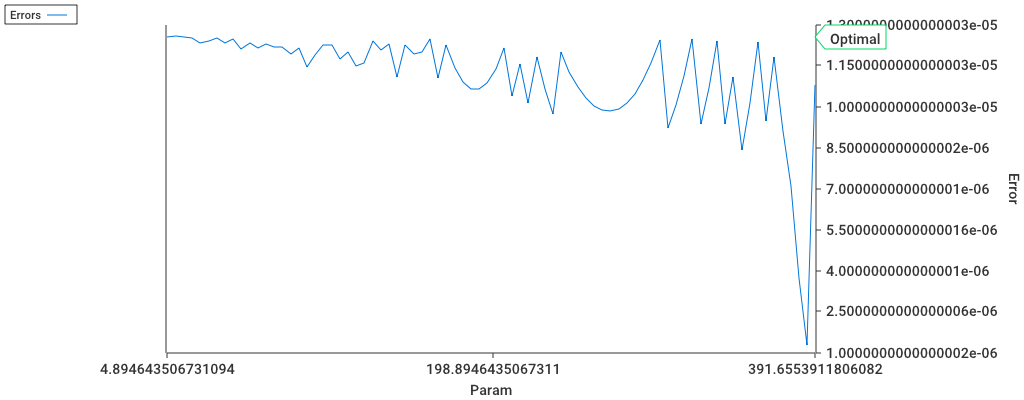
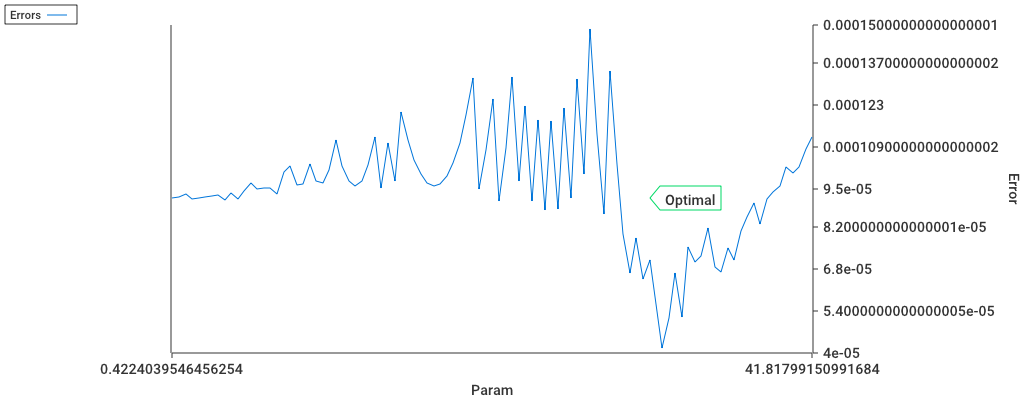
results new

diff --git a/algebra-num-methods/lab4/test.go b/algebra-num-methods/lab4/test.go
@@ -107,7 +107,7 @@ func IterMethod2(n int, m [][]float64, b []float64, EPS float64) (int, []float64
 		if math.Abs(err)*mt <= EPS {
 			return steps, prev
 		}
-		if math.IsNaN(err) {
+		if math.IsNaN(err) || math.IsInf(err, 1) || math.IsInf(err, -1) {
 			return -1, prev
 		}
 		prev = current
@@ -189,11 +189,11 @@ func GenUnitMatrix(n int) [][]float64 {
 	return m
 }
 func Test() {
-	n := 5
+	n := 50
 	mGen, b := GenMatrix(n)
 	// n, mGen, b := lab3.ReadMatrix("lab4/test/1")
 	a := mat.NewSymDense(n, lab1.Flat(mGen))
-	fmt.Println(mGen)
+	// fmt.Println(mGen)
 	var eigsym mat.EigenSym
 	_ = eigsym.Factorize(a, true)
 	eigs := eigsym.Values(nil)
@@ -202,9 +202,9 @@ func Test() {
 	fmt.Println(tL, tR, tOpt)
 	step := (tR - tL) / 100
 	xs, ys, zs := []float64{}, []float64{}, []float64{}
-	eps := 0.001
+	eps := 0.0001
 	res, _ := lib.GaussPartial(mGen, b)
-	fmt.Println(res)
+	// fmt.Println(res)
 
 	// _, res1 := IterMethod(n, mGen, b, eps)
 
@@ -214,26 +214,35 @@ func Test() {
 	}
 	// _, res1 := IterMethod(n,  MultConstMatrix(n, mGen, tOpt), g, eps)
 	// fmt.Println(res, res1)
-	for i := tL + step; i <= tR + step; i += step {
-	// for i := tOpt - step; i <= tR; i += step {
+	for i := tL + step; i < tR-step; i += step {
+	// for i := tOpt; i <= tR; i += step {
 		t := i
-		if tOpt-i < step {
+		if math.Abs(tOpt-i) < step {
 			t = tOpt
 		}
+		fmt.Println("t = ", t)
+
 		m := SubsMatrix(n, GenUnitMatrix(n), MultConstMatrix(n, mGen, t))
+		T := mat.NewSymDense(n, lab1.Flat(m))
+
+		var eigsymT mat.EigenSym
+		_ = eigsymT.Factorize(T, true)
+		mt = floats.Max(eigsymT.Values(nil))
+
 		g := make([]float64, n)
 		for j := 0; j < n; j++ {
 			g[j] = b[j] * t
 		}
-		mDet := mat.NewSymDense(n, lab1.Flat(m))
-		mt = mat.Norm(mDet, 1)
-		fmt.Println(mt)
-		if mt > 1 {
-			// panic("norm > 1")
+
+		fmt.Println("\t", mt)
+		if mt >= 1 {
+			fmt.Println("\tnorm > 1 when t = ", t)
+			break
 		}
 		mt = math.Abs(mt / (1 - mt))
 		steps, res1 := IterMethod2(n, m, g, eps)
 		if steps == -1 {
+			fmt.Println("\tnope")
 			continue
 		}
 		xs = append(xs, float64(steps))
